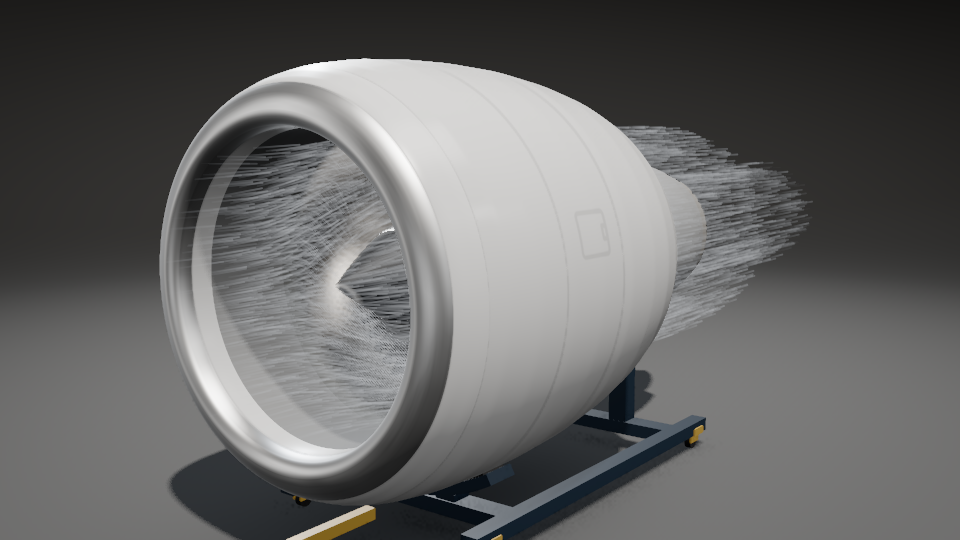
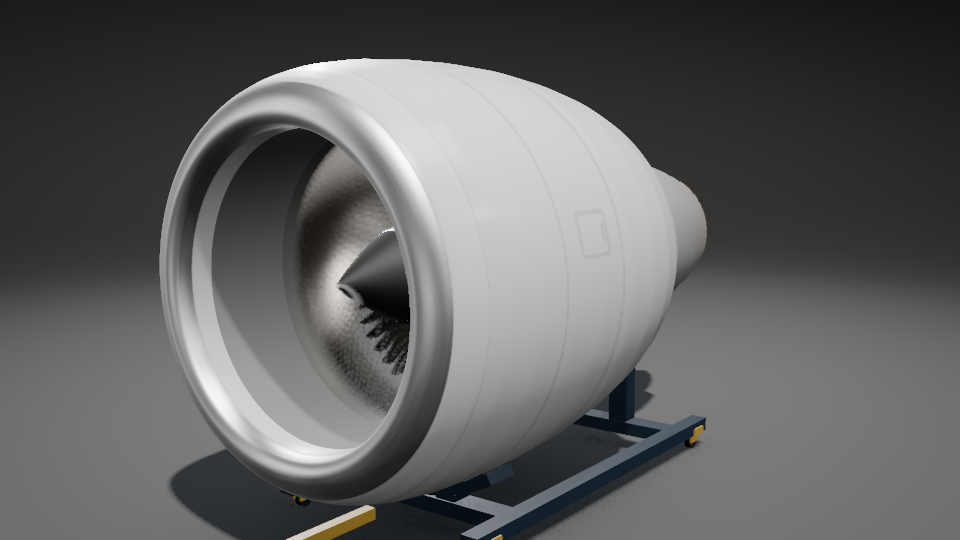
W2-flowviz: re-shot docs/look-dev/flow (round 3: the UI shots at 1920 x 889 incl. ui-cutaway, the browser frames, solver-link.png; the uncoupled solver's near-rest shots removed); GPU_FACTS M51 note, M53 both round-2 numbers and round 3's, M54 the unjittered pass camera, M55 screenSize in an rtt; LO

Changed region(s): [[0.2188, 0.2667, 0.4375, 0.7704], [0.625, 0.2074, 0.8438, 0.6222]]

diff --git a/docs/LOOKDEV.md b/docs/LOOKDEV.md
@@ -17,21 +17,25 @@ Regenerate with `node tools/lookdev/capture.ts --no-timing` (own headed Chrome t
 | `06-fan-takeoff.jpg` | `fanTakeoff`, 1/1000 s | 30 degrees per exposure, 8 time copies: the fan reads as a smooth disc, no blade-edge teeth at the hub |
 | `07-hot-section.jpg` | `hotSection` (cutaway close-up) | Combustor liner and dome, HPT and LPT disks and blades (10 span sections), heat tint graded along x, TRF struts, plug |
 
-## Flow visuals (w2/flowviz round 2: the air made visible)
+## Flow visuals (w2/flowviz rounds 2 and 3: the air made visible)
 
-Run the look-dev page with `?flow=realistic|cutaway|schlieren|data` (`&field=solver` draws the live GPU solver, `&dilation=200` the slow motion, `&domain=full` the uncropped plane); keys `f` (mode), `[` `]` (slow motion), `m` (cut-plane quantity), `n` (crop). The flow panel (top left) shows the mode, the slow-motion factor, the cut-plane quantity, where the field comes from (an amber MOCK badge or a green live-solver one) and the flow visuals' GPU ms; the legend (bottom right) is drawn from the cut plane's own LUT stops. Every layer is derived from the bound field (PHYSICS.md 1); nothing is synthesized.
+Run the look-dev page with `?flow=realistic|cutaway|schlieren|data` (`&field=solver` draws the live GPU solver, `&dilation=200` the slow motion, `&domain=full` the uncropped plane, `&tracers=1|0` the tracers); keys `f` (mode), `[` `]` (slow motion), `m` (cut-plane quantity), `n` (crop), `k` (tracers). The flow panel (top left) shows the mode, the slow-motion factor, the cut-plane quantity, the tracers switch ("mode default" until touched), where the field comes from and how far it is the engine's answer (D4-82: an amber MOCK badge, a blue "Flow solver (uncoupled until W3)" one while the solver runs without blade or combustor forces, a green one only for W3's coupled field) and the flow visuals' GPU ms. A solver that cannot start, is lost or diverges is replaced by the MOCK at once, and the badge and the legend say "MOCK fallback" with the reason (W2V-I6, `src/flow/viz/fieldLink.ts`). The legend (bottom right) is drawn from the cut plane's own LUT stops. Every layer is derived from the bound field (PHYSICS.md 1); the visuals add nothing synthesized.
+
+Round 3 (critic pass 12, D4-82, D4-83): Realistic has no tracers by default (they read as hair on the cinematic view; the option remains); the near-field crop is a crisp edge with a 1.25 px outline instead of a 25 cm fade (no more purple fog round the engine); the speed map runs to 700 m/s (the take-off MOCK's core jet, ~645 m/s, sat flat at the top of 600); the schlieren's a/f is 1000 µrad (the core jet's shear layers inside the grey scale); the flow layers are drawn unjittered (no crawl against TRAA's resolved engine); the haze's shift is the physical one (round 2's was twice it, GPU_FACTS M55).
 
 | File (`docs/look-dev/flow/`) | What it shows |
 |---|---|
-| `ui-realistic.jpg` | Realistic at the default view, take-off MOCK field: tracer streaks drawn into the intake and leaving the nozzles, ×1/200 |
-| `ui-data.jpg` | Data (Mach on viridis) on the cutaway faces, laser-sheet tracers on the faces, the legend |
-| `ui-schlieren.jpg` | Knife-edge schlieren (a/f 500 µrad), side on: the hot core jet's shear layers (light above, dark below), the bypass layer, the intake; the engine a silhouette |
-| `ui-solver-cutaway.jpg` | The live `GpuFlowSolver` field (130k cells) on the cut plane, labelled as the solver. It runs from the solver's timing start state, not an engine solution (the coupling's body forces are W3's) |
+| `ui-realistic.jpg` | Realistic at the default view, take-off MOCK field: the haze only, no tracers (D4-83), the panel with the tracers switch off |
+| `ui-cutaway.jpg` | Cutaway: velocity magnitude (viridis, 0-700 m/s) on the wedge faces, the crisp outlined crop, laser-sheet tracers |
+| `ui-data.jpg` | Data (Mach on viridis) on the cutaway faces, laser-sheet tracers, the legend |
+| `ui-schlieren.jpg` | Knife-edge schlieren (a/f 1000 µrad), side on: the hot core jet's shear layers (light above, dark below) inside the grey scale, the bypass layer, the intake; the engine a silhouette; the legend's end ticks inside the bar |
 | `realistic.png`, `cutaway.png`, `schlieren.png`, `data.png` | The browser test's frames of each mode (960 × 540, MOCK) |
-| `solver-data.png`, `solver-cutaway.png` | The browser test's frames on the live solver field |
+| `solver-link.png` | The W2V-I2 link check, not a look: the live solver's textures set to a uniform 110 m/s, Data mode (one flat Mach 0.32 colour; the solver is uncoupled until W3, so its own field is not showcased) |
 | `glow-hotsection.png` | The hot section at take-off: the HPT/LPT airfoils' blackbody glow (a faint warm lift, physically dim) |
 
-Not done or not right yet: the MOCK field's inflow ahead of the lip converges about ten times faster than continuity allows, which piled tracers on the axis, so the intake tracers are born inside the lip; the haze is a mean-field refraction (3006 of 518400 pixels change side on: physically about a pixel), so there is no shimmer; particles live in the near field only (they fade out at x = 5 m); the cinematic (depth-of-field) presets draw no flow layer.
+The browser test writes these frames to `reports/flow/` (ignored) on every run; `VITE_FLOW_LOOKDEV=1` writes them here (W2V-N8). The `ui-*.jpg` are the look-dev page in Chrome via the MCP (1920 × 889).
+
+Not done or not right yet: the MOCK field's inflow ahead of the lip converges about ten times faster than continuity allows, which piled tracers on the axis, so the intake tracers are born inside the lip (revisit the intake seed zone on W3's coupled solver field); the haze is a mean-field refraction (2942 of 518400 pixels change side on: physically about a pixel), so there is no shimmer; particles live in the near field only (they fade out at x = 5 m); the cinematic (depth-of-field) presets draw no flow layer.
 
 ## Look-dev round 5 (w2/lookdev-5: W2L-I1..I5, P4's last 0.5 ms, the pass-8 visual notes)
 

diff --git a/docs/GPU_FACTS.md b/docs/GPU_FACTS.md
@@ -207,9 +207,11 @@ Chrome 155, Arc 140T, `src/render` at w1/lookdev. Timings here are **indicative,
 - **M48 (N, indicative). The look-dev opaque pass paid about 0.8 ms back to back for its two extra rgba16float MRT targets (view normal, velocity: 24 B per sample instead of 8).** Writing colour and depth only, with GTAO's normal reconstructed from the depth and TRAA's camera velocity from the depth's world point, took the default view from 8.68 to 7.87 ms (paired -0.76 ms, opaque -0.78, GTAO +0.03; 4 of 4 pairs negative). Evidence: `node tools/lookdev/variantAb.ts --b gbuffer=legacy --reps 4` (4 s warm-up, 10 s runs, back to back, every run VALID), w2/lookdev-5 @a610005, 2026-10-28, AC, a reference builder's CPU tests on the machine.
 - **M49 (N). Raw-WGSL particle records in our own GPUBuffer, injected into a `StorageBufferAttribute` (M23 `injectGpuBuffer`), are read by a TSL vertex stage every frame,** the raw compute submitted before three's render (M19). 32768 particles × 48 B, `itemSize` 4 (M24), no `toReadOnly` (M25). Evidence: `tests/browser/flowViz.test.ts` (0 WebGPU errors in every flow mode), w2/flowviz round 2, 2026-10-29.
 - **M50 (N). The solver's own resample textures (`STORAGE_BINDING | TEXTURE_BINDING`) wrapped in `ExternalTexture`s are sampled by TSL materials and by a raw compute pass on the same device in the same frame;** swapping a texture node's `.value` to a new `ExternalTexture` (a rebind, solver to MOCK) rebuilds three's bindings without errors. Evidence: the same file, "draws the live GpuFlowSolver textures on the view device".
-- **M51 (N). `NodeMaterial.vertexNode` takes a clip-space position built from `instanceIndex` storage reads** (camera-facing streak quads), and TRAA's view-offset jitter applies to every pass inside the `RenderPipeline` (three r186 TRAANode sets it in `OnBeforeRenderPipeline` and clears it after), so an extra pass's hand-made depth test against the scene pass's depth texture is consistent. Evidence: the flow overlay in the same file (particles hidden behind the nacelle, the cut plane over the section).
+- **M51 (N). `NodeMaterial.vertexNode` takes a clip-space position built from `instanceIndex` storage reads** (camera-facing streak quads), and TRAA's view-offset jitter applies to every pass inside the `RenderPipeline` (three r186 TRAANode sets it in `OnBeforeRenderPipeline` and clears it after), so an extra pass's hand-made depth test against the scene pass's depth texture is consistent. Evidence: the flow overlay in the same file (particles hidden behind the nacelle, the cut plane over the section). Round 3 (W2V-I5): a pass that is not accumulated by TRAA must not take that jitter, so the flow overlay now renders with its own camera (M54).
 - **M52 (N). `renderOutput(node, AgXToneMapping, SRGBColorSpace)` in a `RenderPipeline` with `outputColorTransform = false` gives the tone-mapped display image, over which a LUT read with `NoColorSpace` composites unchanged:** 24828 of 36348 sampled cut-plane pixels (68 %) are within 3/255 of a viridis LUT entry; the rest are contour lines and anti-aliased edges (D4-76). Evidence: the same file, 2026-10-29.
-- **M53 (N, indicative). The flow visuals at the default preset (Realistic: 32768 streaks + haze), 1080p, back to back: 1.28 ms GPU** (render passes 1.11, compute 0.17; 3 paired runs 1.16-1.56), inside D4-2's 2 ms. Evidence: the `[timing]` test in the same file (`docs/look-dev/flow/timing.json`), w2/flowviz round 2, 2026-10-29, a reference builder's CPU tests on the machine (not D0-1).
+- **M53 (N, indicative). The flow visuals at the default preset, 1080p, back to back, inside D4-2's 2 ms.** Round 2 (Realistic with 32768 streaks + haze): **1.28 ms GPU** in the first run (render passes 1.11, compute 0.17; 3 paired runs 1.16-1.56) and **1.18 ms** in the gate run at eddce14 (1.15, 1.18, 1.22). Round 3 (D4-83: Realistic has no tracers by default; the haze at half its round-2 shift, W2V-I3): **0.56 ms** (render passes 0.48, compute 0.08; 3 paired runs 0.55-0.57), and **0.92 ms** with the tracers on (compute 0.14, with W2V-I4's substeps); P4's paired change +0.18 ms. Evidence: the `[timing]` test in the same file (`docs/look-dev/flow/timing.json`), 2026-10-29, other agents' work on the machine (not D0-1).
+- **M54 (N). A `pass(scene, camera2)` inside a `RenderPipeline` whose TRAA node jitters `camera` renders unjittered when `camera2` is a separate `PerspectiveCamera` copied from `camera` before the pipeline renders** (`camera2.copy(camera, false)`: TRAA sets the view offset only inside `OnBeforeRenderPipeline`/`OnAfterRenderPipeline`), and `PassNode.camera` can be swapped per frame. Measured: the flow overlay of a still Data frame (everything else hidden) is bit-identical frame to frame (0 of 518400 pixels change), against 222681 changed with the jittered camera. Evidence: `tests/browser/flowViz.test.ts` "W2V-I5", w2/flowviz round 3, 2026-10-29.
+- **M55 (N). Inside an `rtt()` node, TSL's `screenSize` is that render target's size, not the frame's:** a half-resolution RTT that divides a shift in full-frame pixels by `screenSize` gets twice the uv. Found by the haze's ray-for-ray check against its TS model (99.8 % error at the peak; 0.09 % after the haze moved to resolution-free uniforms, 2 tan(fovY/2) and the aspect). Evidence: the same file, "W2V-I3".
 - **M43 evidence (W1V-I3):** the EqualDepth fan is now checked by `tests/browser/equalDepth.test.ts` (0 differing pixels against an ordinary depth test, with a nudged pre-pass as the negative control), not by the fan-blur test, which cannot see a hole.
 
 ## Researched, NOT verified
